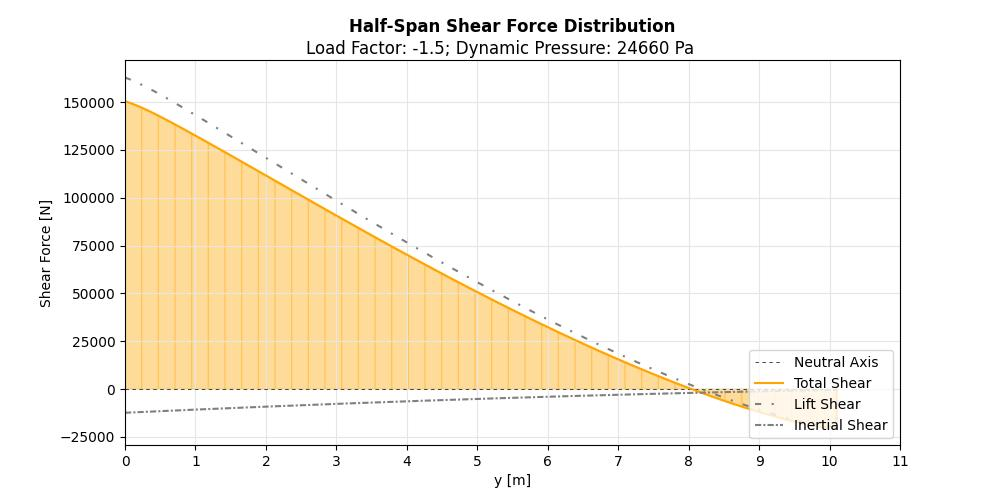
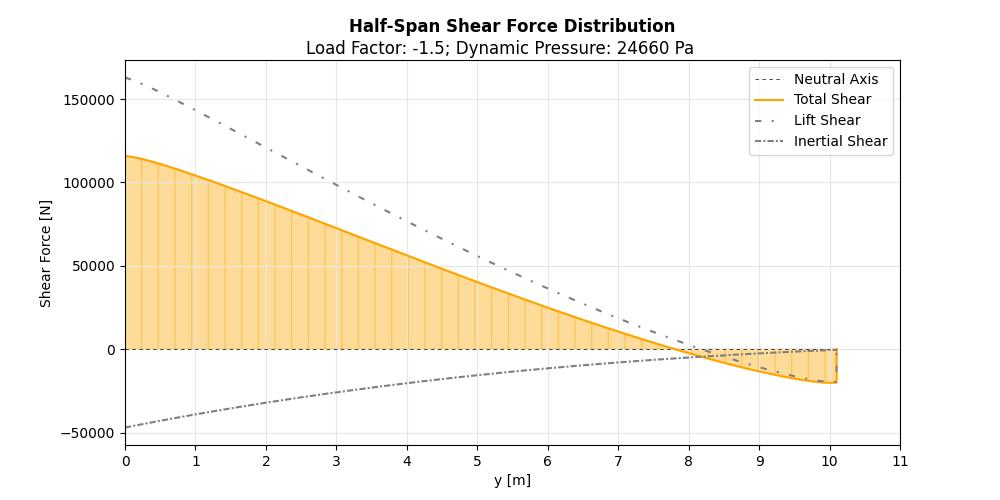
var

diff --git a/main.py b/main.py
@@ -43,7 +43,7 @@ def calcForces(sf,nload,q,CL):
 
     # plt.plot(np.linspace(0, 10.1, sample), L_prime)
     # plt.plot(np.linspace(0, 10.1, sample), D_prime)
-    # plt.plot(np.linspace(0, 10.1, sample), N_prime)
+    plt.plot(np.linspace(0, 10.1, sample), N_prime)
     # plt.plot(np.linspace(0, 10.1 ,sample), M_prime)
 
     # Inertial Loading
@@ -130,7 +130,7 @@ def plot(x,sum_shear,lift_shear,inertial_shear,sum_moment,lift_moment,inertial_m
     plt.plot(x,sum_shear,color='orange')
     plt.plot(x,lift_shear,color='grey',linestyle=(0,(3,5,1,5)))
     plt.plot(x,inertial_shear,color='grey',linestyle=(0,(3,1,1,1)))
-    plt.legend(('Neutral Axis', 'Total Shear', 'Lift Shear', 'Inertial Shear'), loc="lower right")
+    plt.legend(('Neutral Axis', 'Total Shear', 'Lift Shear', 'Inertial Shear'), loc="upper right")
 
     plt.fill_between(x, sum_shear, step="pre", alpha=0.4, color='orange', hatch='|')
 
@@ -194,6 +194,7 @@ def plot(x,sum_shear,lift_shear,inertial_shear,sum_moment,lift_moment,inertial_m
 
     plt.show()
     
+plt.show()
 # plot(x,sum_shear1,lift_shear1,inertial_shear1,sum_moment1,lift_moment1,inertial_moment1,torque_dist1,nload1,q)
 # plot(x,sum_shear2,lift_shear2,inertial_shear2,sum_moment2,lift_moment2,inertial_moment2,torque_dist2,nload2,q)
 # plot(x,sum_shear3,lift_shear3,inertial_shear3,sum_moment3,lift_moment3,inertial_moment3,torque_dist3,nload3,q3)
